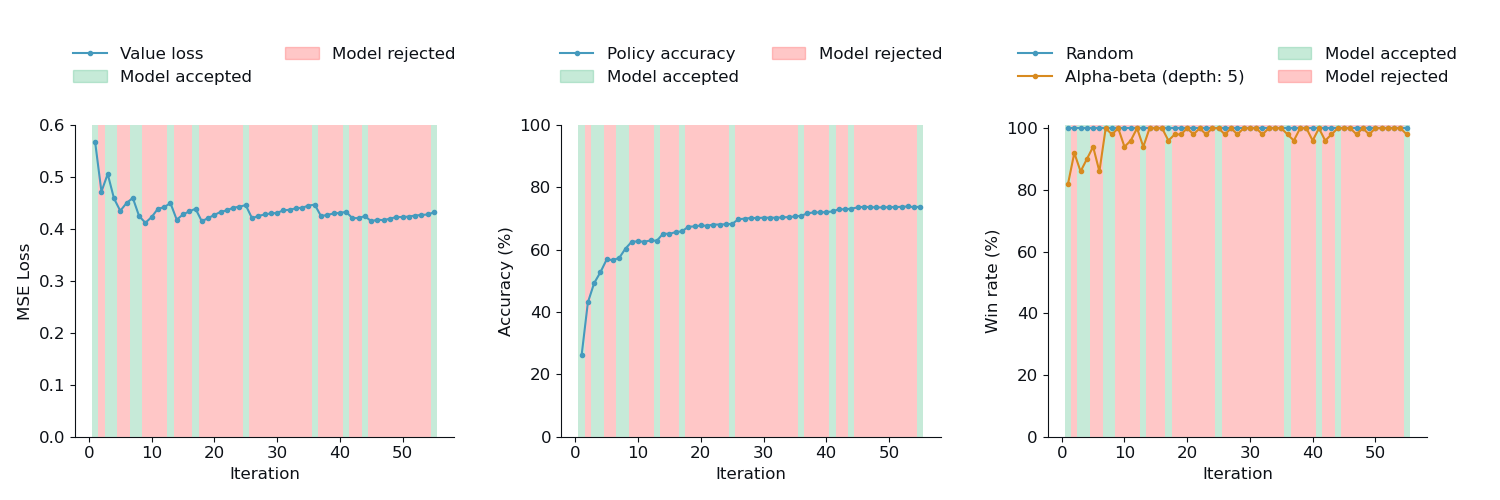
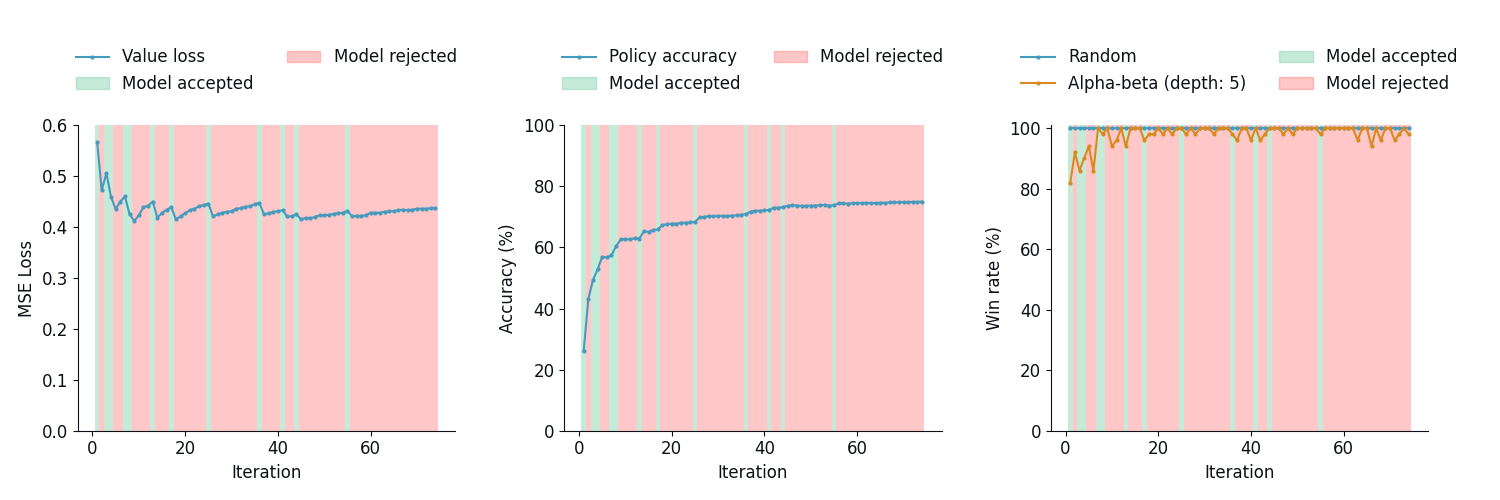
Added updated plots and results for training examples in README

diff --git a/experiment/Experiment.py b/experiment/Experiment.py
@@ -58,7 +58,7 @@ class Experiment:
                         self.__logger.log(f"Action: {action}. Policy: {policy}", to_experiment=True)
                         self.__logger.log(f"{Game().display(state)}", to_experiment=True)
 
-    def plot_result_curves(self, path="./logs/recent", dark_mode=False):
+    def plot_result_curves(self, path="./logs/saved", dark_mode=True):
         results_per_iteration = self.__parse_log_summary_file(path)
         value_losses = [result["value_loss"] for result in results_per_iteration]
         policy_accuracies = [result["policy_accuracy"] for result in results_per_iteration]
@@ -70,7 +70,7 @@ class Experiment:
         fig, axes = plt.subplots(nrows=1, ncols=3, figsize=(15, 5))
         color = "#0d1117" if not dark_mode else "#F0F6FC"
         patch_width = 1.
-        marker_size = 3
+        marker_size = 2
 
         iterations = range(1, len(results_per_iteration) + 1)
         value_loss_line, = axes[0].plot(iterations, value_losses, label="Value loss", color="#459abd", marker="o",

diff --git a/README.md b/README.md
@@ -86,7 +86,7 @@ tuned manually.
     <tr>
         <td rowspan="4"><a href="./brain/AlphaZero.py">Training loop</a></td>
         <td># iterations</td>
-        <td colspan="3">80</td>
+        <td colspan="3">75</td>
     </tr>
     <tr>
         <td># self-play episodes</td>
@@ -173,6 +173,10 @@ tuned manually.
 ### Results
 
 #### Training
+
+After [training for all iterations](./logs/saved), a total of 989,012 state-policy-reward triplets were
+collected with 688,125 unique state-reward pairs. There were 13 occassions where
+the new model was accepted.
 
 The following plots illustrate the value loss, policy accuracy, 
 and win rate across all iterations, evaluated against both a random 
